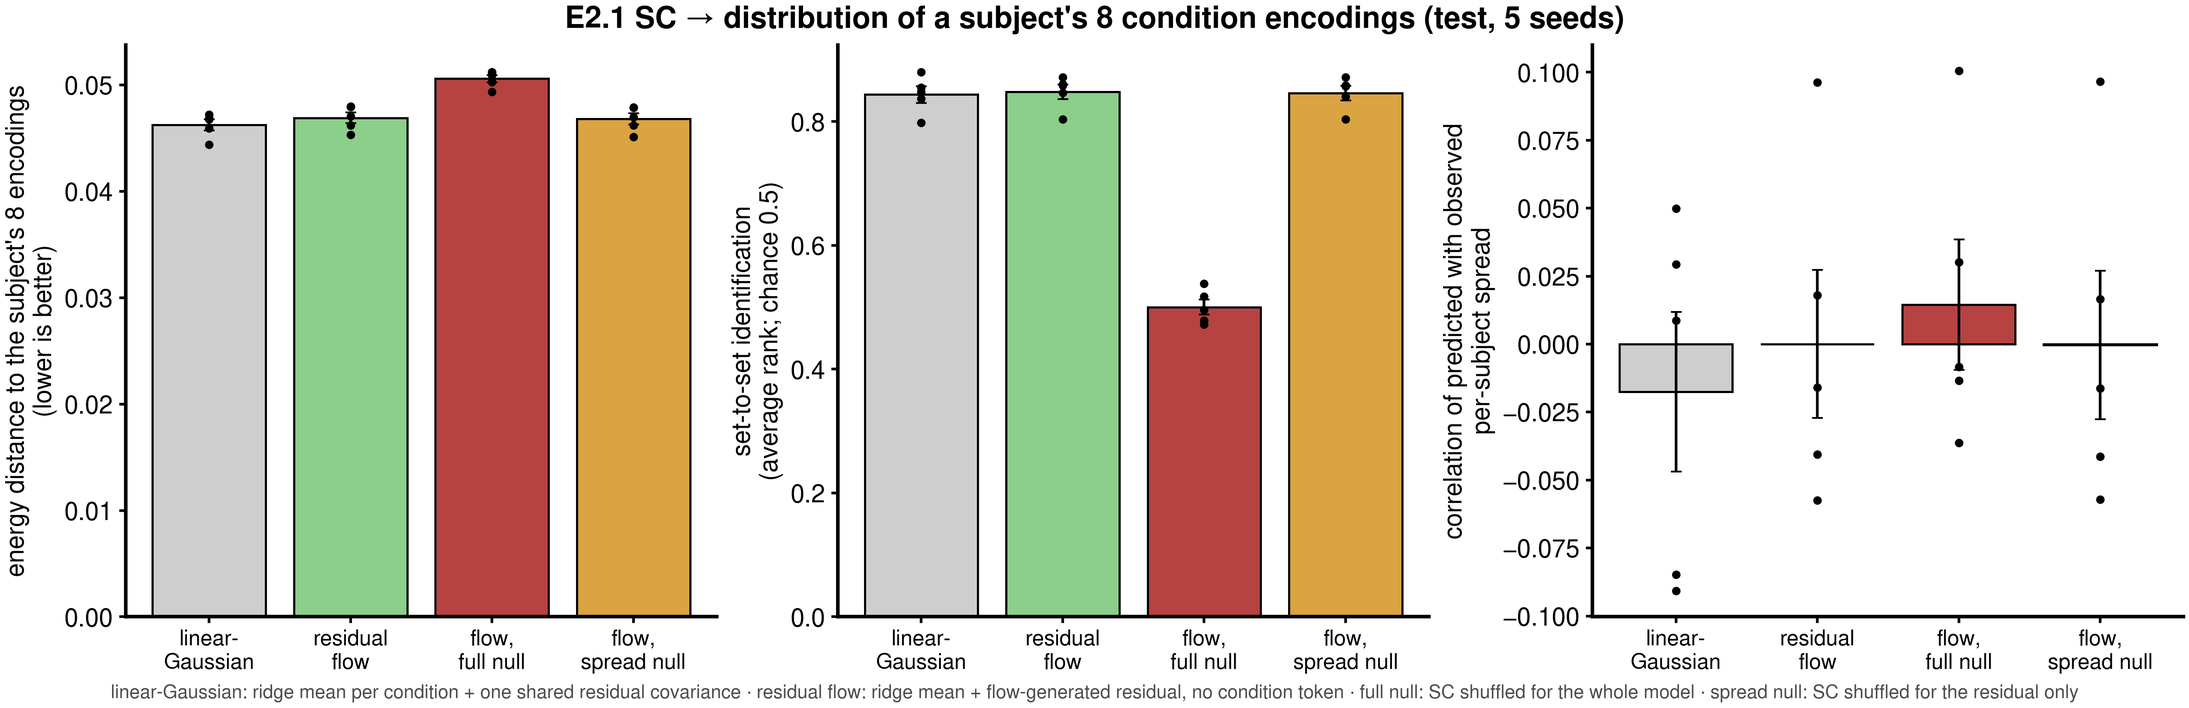
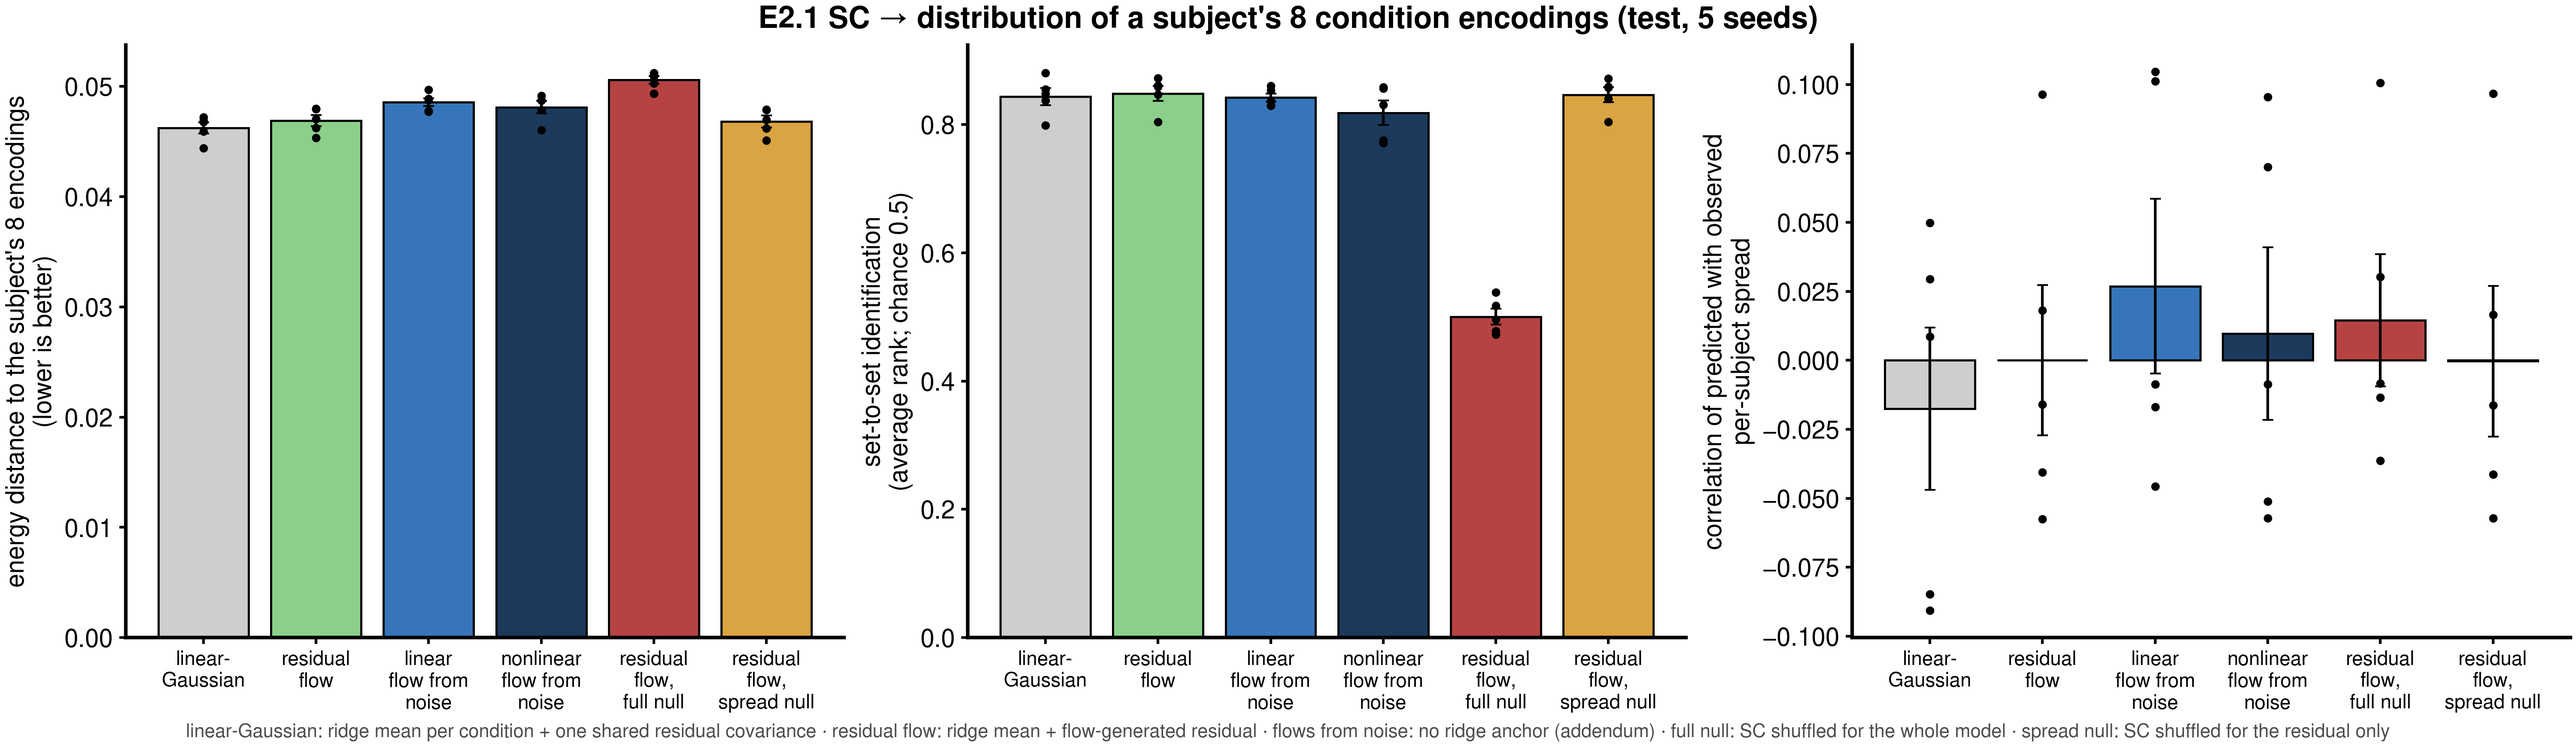
E2.1 figures: add the addendum's linear / nonlinear flows from noise to the per-condition and distribution figures; e21_analyze labels each record's distribution by model (the from-noise flows' rows were being read as linear-Gaussian on rerun)

diff --git a/scripts/experiments/joint_flow_matching/e21_analyze.py b/scripts/experiments/joint_flow_matching/e21_analyze.py
@@ -30,7 +30,10 @@ LABEL = {"v3E0": "SC PCA → task FC (per-task FC PCA) · PCA-PLS learnable [v3:
          "corrector": "SC PCA → task latent → task FC · ridge + MLP corrector",
          "corrector_id": "… · ridge + MLP corrector, identity loss",
          "bridge": "… · ridge-start flow (16 steps)",
-         "flow": "… · residual conditional flow (ridge mean + mean of 256 samples)"}
+         "flow": "… · residual conditional flow (ridge mean + mean of 256 samples)",
+         "flow_linear": "… · linear flow from noise, no ridge anchor (mean of 256 samples) [addendum]",
+         "flow_free": "… · nonlinear flow from noise, no ridge anchor (mean of 256 samples) [addendum]"}
+DIST_NAME = {"refs": "gauss", "flow": "flow", "flow_linear": "flow_linear", "flow_free": "flow_free"}   # record -> distribution row
 
 
 def load():
@@ -40,8 +43,10 @@ def load():
         for row in r.get("rows", []):
             row = dict(row, seed=r["seed"])
             (l2s if "input" in row else point).append(row)
-        for key, name in (("dist", "flow" if r["model"] == "flow" else "gauss"), ("dist_shuffled", "flow_shuffled"),
-                          ("dist_spread_null", "flow_spread_null")):
+        base = DIST_NAME.get(r["model"])
+        for key, name in (("dist", base), ("dist_shuffled", f"{base}_shuffled"), ("dist_spread_null", f"{base}_spread_null")):
+            if base is None:
+                continue
             for split, d in r.get(key, {}).items():
                 dist.append(dict({k: v for k, v in d.items() if not isinstance(v, dict)}, model=name, split=split,
                                  seed=r["seed"]))
@@ -119,22 +124,23 @@ def hypotheses(point, dist, l2s, retest):
 def fig_conditions(point, path):
     import matplotlib; matplotlib.use("Agg")
     import matplotlib.pyplot as plt
-    models = ["v3E0", "ridge_cons", "ridge_cond", "corrector", "corrector_id", "bridge", "flow"]
-    colors = [PAL["red"], PAL["neutral"], PAL["teal"], PAL["blue"], PAL["violet"], PAL["gold"], PAL["green"]]
+    models = ["v3E0", "ridge_cons", "ridge_cond", "corrector", "corrector_id", "bridge", "flow", "flow_linear", "flow_free"]
+    colors = [PAL["red"], PAL["neutral"], PAL["teal"], PAL["blue"], PAL["violet"], PAL["gold"], PAL["green"], "#3775BA", "#1B3A5C"]
     q = point[(point.split == "test") & (point.steps == 16)]
     with plt.rc_context({**mb.FIG_RC, "font.size": 14, "axes.linewidth": 2.0}):
-        fig, ax = plt.subplots(figsize=(17, 7), layout="constrained")
-        x, w = np.arange(len(FC)), 0.11
+        fig, ax = plt.subplots(figsize=(19, 7.5), layout="constrained")
+        x, w = np.arange(len(FC)), 0.09
         for j, (m, c) in enumerate(zip(models, colors)):
             g = q[q.model == m].groupby("condition").demeaned_pearson
-            ax.bar(x + (j - 3) * w, [g.mean().get(v, np.nan) for v in FC], w, yerr=[g.sem().get(v, np.nan) for v in FC],
+            ax.bar(x + (j - (len(models) - 1) / 2) * w, [g.mean().get(v, np.nan) for v in FC], w, yerr=[g.sem().get(v, np.nan) for v in FC],
                    color=c, edgecolor="black", lw=0.9, capsize=1.5, label=LABEL[m])
         ceil = q[q.model == "ceiling"].groupby("condition").demeaned_pearson.mean()
-        ax.scatter(x + 3.6 * w, [ceil.get(v) for v in FC], marker="_", s=300, color="black", lw=2.5,
+        ax.scatter(x + ((len(models) - 1) / 2 + 0.7) * w, [ceil.get(v) for v in FC], marker="_", s=300, color="black", lw=2.5,
                    label="ceiling: measured FC consensus latent → task FC (no SC) [E1]")
         ax.set_xticks(x, FC); ax.set_xlabel("target FC condition")
         ax.set_ylabel("Test demeaned r (predicted vs measured FC)")
-        ax.set_title("E2.1 SC → FC per condition through the latent: linear, nonlinear and flow models; mean ± SE, 5 seeds",
+        ax.set_title("E2.1 SC → FC per condition through the CCA latent: linear, nonlinear and flow models "
+                     "(selected search runs); mean ± SE, 5 seeds",
                      fontweight="bold", fontsize=15)
         ax.legend(frameon=False, fontsize=11, loc="upper right")
         fig.savefig(path, dpi=300, facecolor="white"); plt.close(fig)
@@ -144,11 +150,13 @@ def fig_distribution(dist, path):
     import matplotlib; matplotlib.use("Agg")
     import matplotlib.pyplot as plt
     q = dist[dist.split == "test"]
-    names = {"gauss": "linear-\nGaussian", "flow": "residual\nflow", "flow_shuffled": "flow,\nfull null",
-             "flow_spread_null": "flow,\nspread null"}
-    cols = {"gauss": PAL["neutral"], "flow": PAL["green"], "flow_shuffled": PAL["red"], "flow_spread_null": PAL["gold"]}
+    names = {"gauss": "linear-\nGaussian", "flow": "residual\nflow", "flow_linear": "linear\nflow from\nnoise",
+             "flow_free": "nonlinear\nflow from\nnoise", "flow_shuffled": "residual\nflow,\nfull null",
+             "flow_spread_null": "residual\nflow,\nspread null"}
+    cols = {"gauss": PAL["neutral"], "flow": PAL["green"], "flow_linear": "#3775BA", "flow_free": "#1B3A5C",
+            "flow_shuffled": PAL["red"], "flow_spread_null": PAL["gold"]}
     with plt.rc_context({**mb.FIG_RC, "font.size": 14, "axes.linewidth": 2.0}):
-        fig, axes = plt.subplots(1, 3, figsize=(17, 5.5), layout="constrained")
+        fig, axes = plt.subplots(1, 3, figsize=(20, 5.8), layout="constrained")
         for ax, metric, ylab in zip(axes, ("energy", "set_avg_rank", "spread_corr"),
                                     ("energy distance to the subject's 8 encodings\n(lower is better)",
                                      "set-to-set identification\n(average rank; chance 0.5)",
@@ -159,12 +167,12 @@ def fig_distribution(dist, path):
                    color=[cols[m] for m in ms], edgecolor="black", lw=1.2, capsize=3)
             for i, m in enumerate(ms):
                 ax.scatter(np.full(5, i), q[q.model == m][metric], s=14, color="black", zorder=3)
-            ax.set_xticks(range(len(ms)), [names[m] for m in ms], fontsize=12)
+            ax.set_xticks(range(len(ms)), [names[m] for m in ms], fontsize=11)
             ax.set_ylabel(ylab)
         fig.suptitle("E2.1 SC → distribution of a subject's 8 condition encodings (test, 5 seeds)", fontweight="bold")
         fig.supxlabel("linear-Gaussian: ridge mean per condition + one shared residual covariance · residual flow: ridge mean + "
-                      "flow-generated residual, no condition token · full null: SC shuffled for the whole model · spread null: "
-                      "SC shuffled for the residual only", fontsize=10.5, color="#4D4D4D")
+                      "flow-generated residual · flows from noise: no ridge anchor (addendum) · full null: SC shuffled for the "
+                      "whole model · spread null: SC shuffled for the residual only", fontsize=10.5, color="#4D4D4D")
         fig.savefig(path, dpi=300, facecolor="white"); plt.close(fig)
 
 

diff --git a/scripts/experiments/joint_flow_matching/joint_flow_matching.md b/scripts/experiments/joint_flow_matching/joint_flow_matching.md
@@ -53,6 +53,9 @@ residual flow 0.0473; full null −0.0001.
 
 ![SC to FC per condition](results/Glasser/e21/figures/fig_sc2fc_conditions.png)
 
+The per-condition and distribution figures also show the addendum's linear and nonlinear flows from noise (no ridge
+anchor; their selected search runs, the same protocol as the residual flow; §7–8 for longer training and temperature).
+
 ### Distribution of a subject's 8 condition encodings
 
 | | Energy distance (lower is better) | Set identification (avg rank; chance 0.5) | Set top-1 | Spread tracks the subject (r) | Predicted / observed spread |
